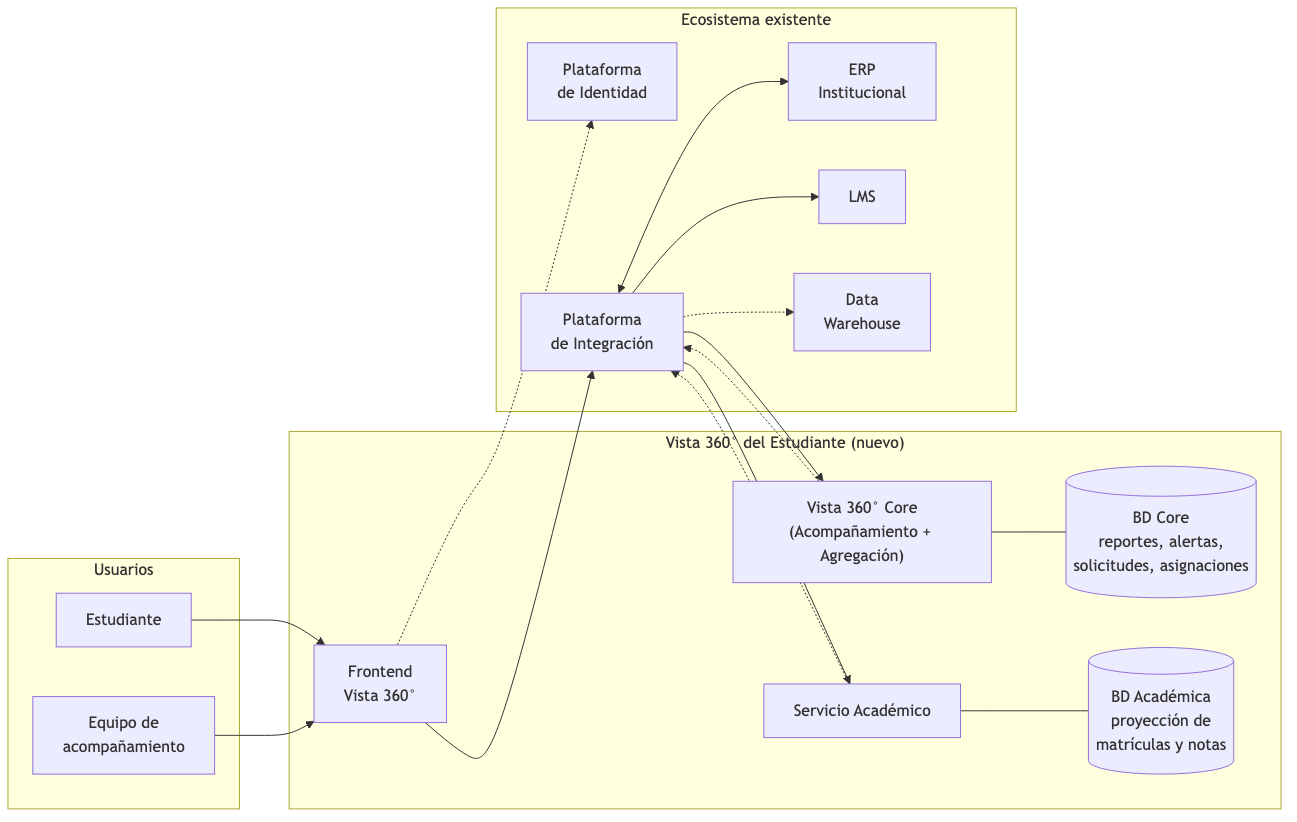
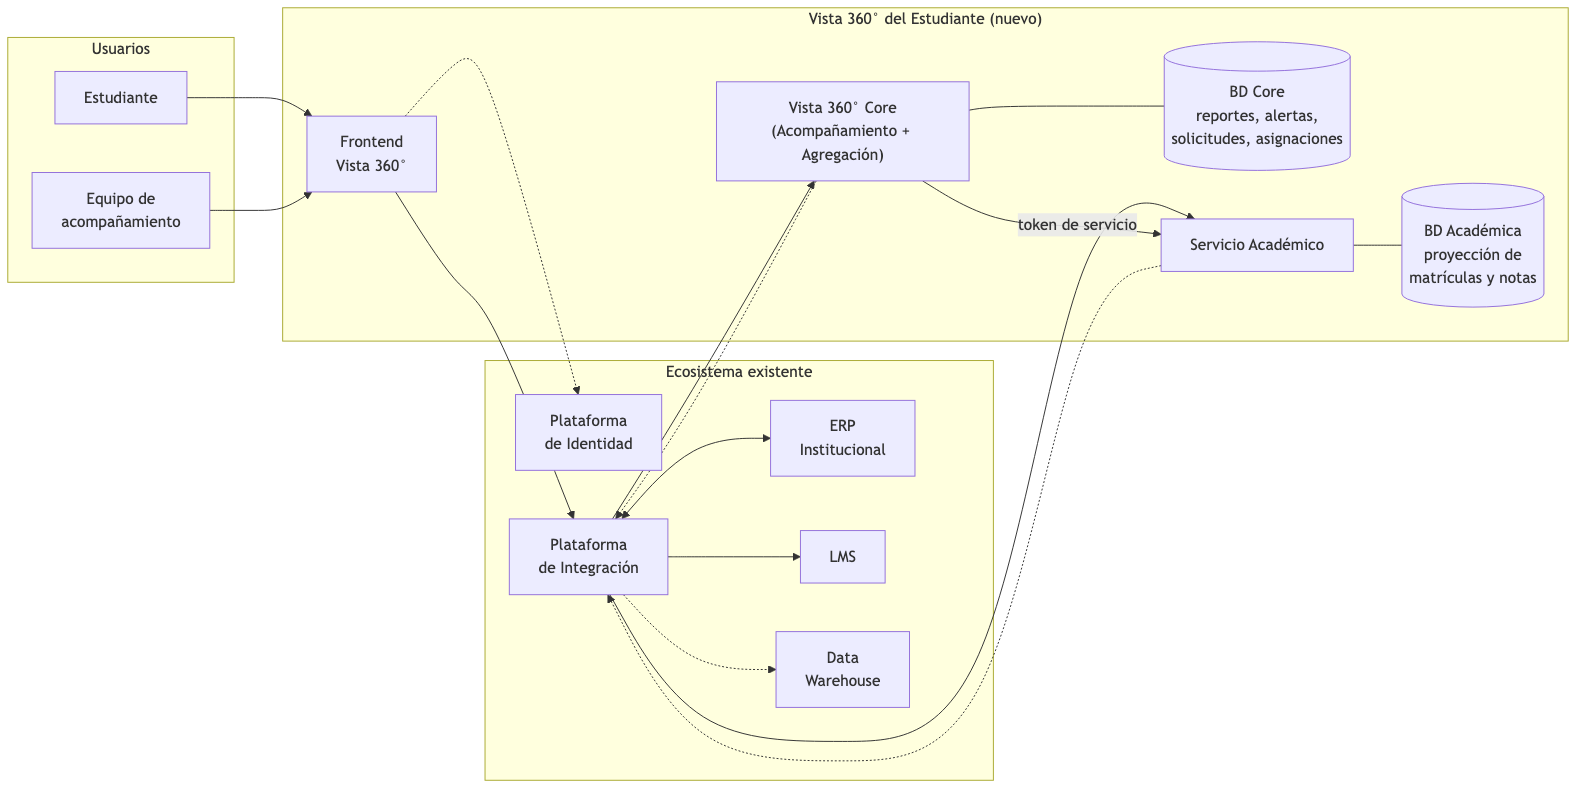
docs(arquitectura): mostrar la llamada directa de Core al Servicio Académico
La relación estaba descrita en la Parte 3.1 (Core arma la vista consolidada
de un profesional llamando al Servicio Académico con token de servicio)
pero no aparecía en ningún diagrama de la Parte 1: las Vistas 0 y 1 solo
mostraban el camino del estudiante vía la plataforma de integración. Se
añade la arista CORE→ACAD en ambas vistas sin quitar la existente, porque
son dos caminos legítimos y distintos, más la fila correspondiente en la
tabla de comunicación y la aclaración de que la puerta de enlace única
aplica a sistemas externos, no entre piezas propias. PNG regenerados desde
el Mermaid.

diff --git a/docs/01-arquitectura.md b/docs/01-arquitectura.md
@@ -44,6 +44,7 @@ flowchart LR
     FE --> INT
     INT --> CORE
     INT --> ACAD
+    CORE -->|"token de servicio"| ACAD
     CORE --- BDCORE
     ACAD --- BDACAD
     INT <--> ERP
@@ -95,6 +96,7 @@ flowchart TD
     FE -->|"REST, Bearer JWT"| INT
     INT -->|"REST"| CORE
     INT -->|"REST"| ACAD
+    CORE -->|"REST, token de servicio"| ACAD
     INT -->|"REST, solo lectura"| ERP
     INT -->|"REST"| LMS
 ```
@@ -128,7 +130,7 @@ flowchart TD
 ```
 </details>
 
-**Cómo leer ambas vistas:** línea sólida es comunicación síncrona (pido y espero respuesta); línea punteada es comunicación asíncrona (evento o sincronización de fondo). En la Vista 1, todo el tráfico síncrono hacia sistemas externos pasa por la Plataforma de Integración como puerta de enlace única, en vez de que cada aplicación de Vista 360° hable directo con el ERP o el LMS. Esa decisión centraliza en un solo punto la protección de esas APIs y contiene el impacto si el ERP cambia un endpoint. La Vista 2 muestra por separado el otro tipo de tráfico, el que nadie está esperando en pantalla, el ERP avisa que algo cambió, y Vista 360° Core y el Servicio Académico se mantienen al día o publican sus propios cambios sin bloquear a ningún usuario.
+**Cómo leer ambas vistas:** línea sólida es comunicación síncrona (pido y espero respuesta); línea punteada es comunicación asíncrona (evento o sincronización de fondo). En la Vista 1, todo el tráfico síncrono hacia sistemas externos pasa por la Plataforma de Integración como puerta de enlace única, en vez de que cada aplicación de Vista 360° hable directo con el ERP o el LMS. Esa decisión centraliza en un solo punto la protección de esas APIs y contiene el impacto si el ERP cambia un endpoint. Entre las piezas propias de Vista 360° la regla es distinta: Core llama directo al Servicio Académico con un token de servicio (la arista `CORE → ACAD`), porque ahí la puerta de enlace no aporta nada —ambos extremos son propios, comparten el mismo mecanismo de validación de JWT, y el detalle de esa relación está en la Parte 3.1 (`04-parte-3.md`)—. Así, el Servicio Académico se consulta por dos caminos legítimos: el estudiante directo con su propio token (vía la puerta de enlace) y Core con token de servicio al armar la vista consolidada de un profesional. La Vista 2 muestra por separado el otro tipo de tráfico, el que nadie está esperando en pantalla, el ERP avisa que algo cambió, y Vista 360° Core y el Servicio Académico se mantienen al día o publican sus propios cambios sin bloquear a ningún usuario.
 
 Un detalle que el diagrama no muestra por claridad: tanto Vista 360° Core como el Servicio Académico validan la firma del JWT de forma local, usando la llave pública que publica la Plataforma de Identidad, sin hacer una llamada de red por cada petición (ver SUP-06). Se detalla en la Parte 3.1.
 
@@ -163,6 +165,7 @@ Elección de motor: relacional (PostgreSQL) para ambas, por la misma razón en l
 |---|---|---|
 | Frontend a Vista 360° Core / Servicio Académico | Síncrono, REST sobre HTTPS, vía la plataforma de integración | El usuario espera respuesta en pantalla, no hay nada que ganar con asíncrono aquí. |
 | Vista 360° Core (Agregación) a ERP, LMS | Síncrono, vía plataforma de integración | Datos que se piden bajo demanda para armar la vista consolidada. |
+| Vista 360° Core (Agregación) a Servicio Académico | Síncrono, REST, token de servicio | Core arma la vista consolidada pidiendo notas ya materializadas, sin repetir la validación de asignación estudiante-profesional que ya hizo (SUP-02). |
 | Vista 360° Core (Agregación) a ERP, dato financiero | Síncrono, en vivo, sin caché | SUP-14, la corrección pesa más que la latencia en este dato puntual. |
 | Servicio Académico a ERP | Asíncrono, eventos vía plataforma de integración, o consulta periódica si el ERP no emite eventos | Es sincronización de una proyección propia, no una respuesta esperada en pantalla, evita golpear al ERP en cada lectura. |
 | ERP a Vista 360° Core (Acompañamiento) y a Data warehouse, ante cambio de condición académica | Asíncrono, evento con múltiples suscriptores | Ver Escenario B de la Parte 3 en `04-parte-3.md`, un solo evento, varios interesados, desacopla al ERP de saber quién consume el cambio. |
